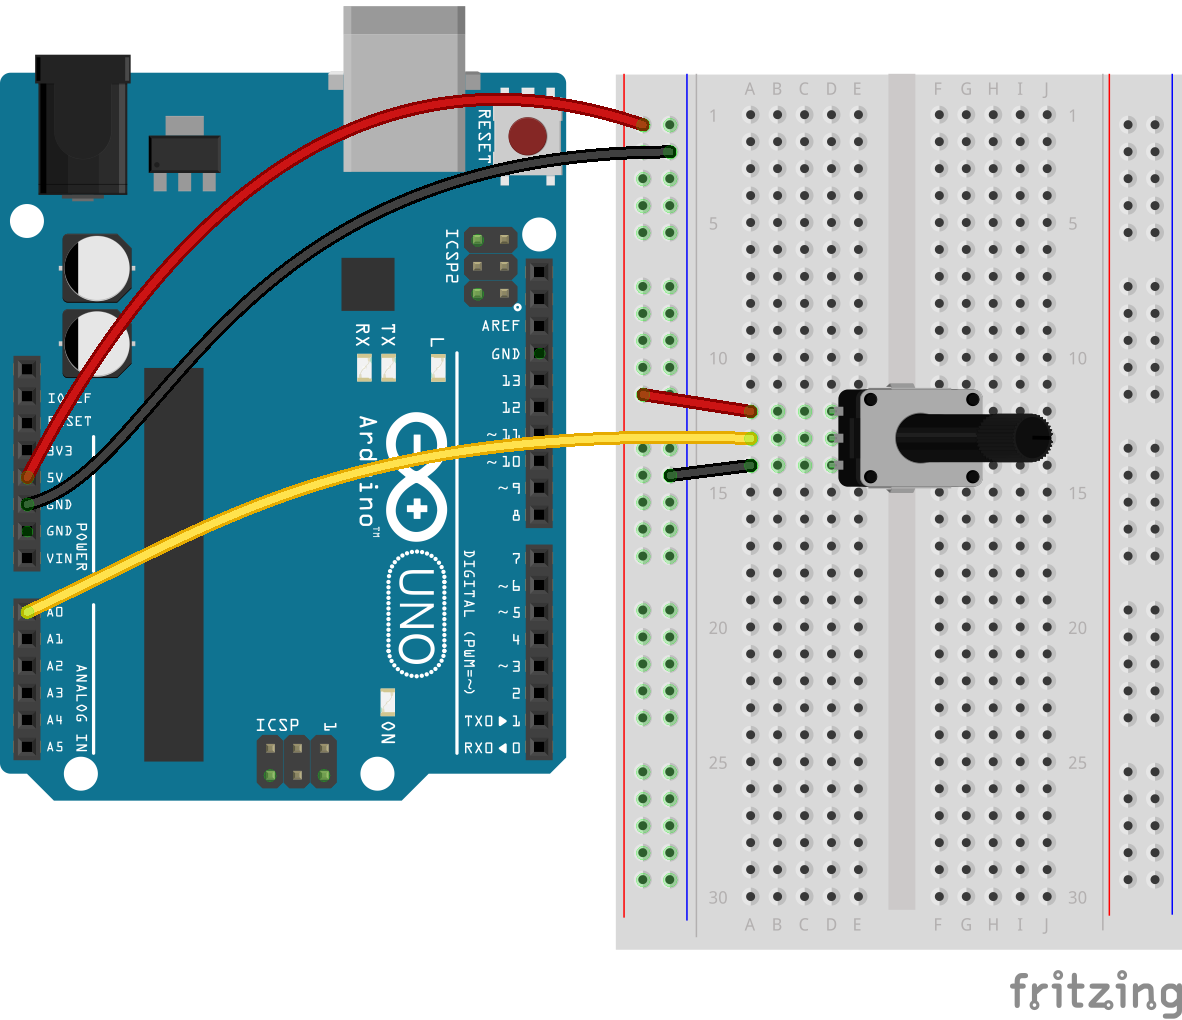
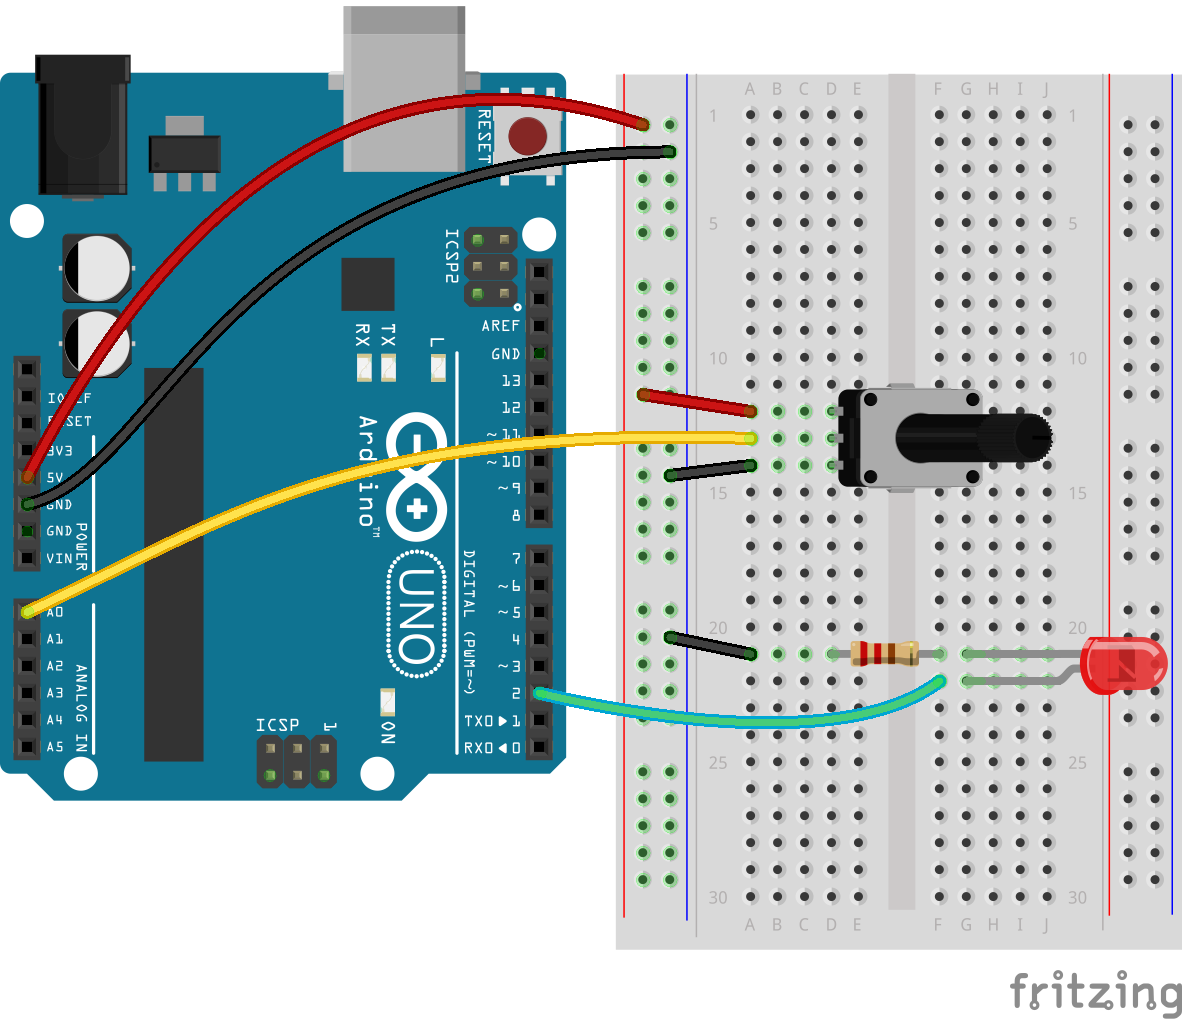
Adjusted Arduino BLE to include digital output capability.

Changed region(s): [[0.5482, 0.6078, 1.0, 0.699], [0.4569, 0.6686, 0.731, 0.7294]]

diff --git a/examples/arduino-ble/app/index.html b/examples/arduino-ble/app/index.html
@@ -56,7 +56,7 @@
 		</div>
 		<p>This app shows how to connect to an Arduino BLE shield. Note that you must run this app in the EvoThings client app, or build a Cordova app with the plugin com.evothings.ble. Device with support for Bluetooth 4.0 and Android 4.3 or higher required.</p>
 		<p><b>Example circuit:</b><br /><img src="arduino-ble-board-sketch.png" style="max-height:30%;" /></p>
-		<p><b>How it works:</b> The input from analog pin A0 is plotted on the canvas. The variable resistor (potentiometer) makes a voltage between 0 and +5 V appear as the input on pin A0. Please experiment with your own circuits and let us know how cool they are!</p>
+		<p><b>How it works:</b> The ON &amp; OFF buttons controls digital pin 2 on the Arduino which is here connected to an LED. The plot shows the input from analog pin A0 which is here connected to a variable resistor (potentiometer). Please experiment with your own circuits and let us know how cool they are!</p>
 		<p>There are known problems with BLE stop working on multiple reloads. Restart the EvoThings client app in this case.</p>
 	</body>
 </html>
